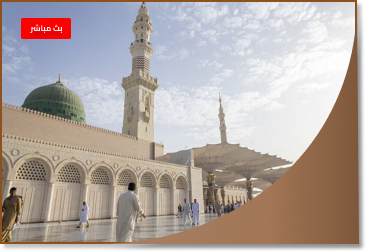
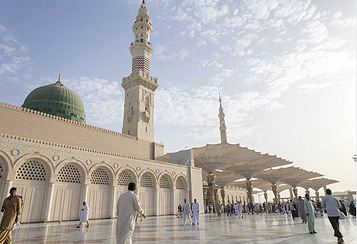
haramain page fixed

diff --git a/lib/controllers/haramain_controller.dart b/lib/controllers/haramain_controller.dart
@@ -43,9 +43,14 @@ class _LiveStreamPageState extends State<LiveStreamPage> {
           (context, player) => Scaffold(
             appBar: AppBar(
               title: Text(widget.title),
-              backgroundColor: Colors.brown,
+              backgroundColor: Colors.transparent,
             ),
-            body: Center(child: player),
+            body: Center(
+              child: Padding(
+                padding: const EdgeInsets.symmetric(vertical: 119.0),
+                child: player,
+              ),
+            ),
           ),
     );
   }

diff --git a/lib/widgets/tools_widgets/haramain_custom.dart b/lib/widgets/tools_widgets/haramain_custom.dart
@@ -73,12 +73,12 @@ class HaramCard extends StatelessWidget {
 
           Positioned(
             bottom: 1,
-            right: 10,
+            right: 0,
             child: Stack(
               alignment: Alignment.bottomRight,
               children: [
                 Image.asset(
-                  'assets/Vector.png',
+                  'assets/images/Vector.png',
                   width: 263,
                   height: 244,
                   fit: BoxFit.cover,

diff --git a/lib/controllers/track_controller.dart b/lib/controllers/track_controller.dart
@@ -1,3 +1,4 @@
+import 'package:flutter/material.dart';
 import 'package:get/get.dart';
 import 'dart:convert';
 import 'package:flutter/services.dart';
@@ -129,7 +130,6 @@ class TrackController extends GetxController {
     progressId = -1;
     type = "";
     isTrackActive = false;
-    Get.reload();
-    Get.to(() => MainScaffold(userType: UserType.user, index: 2));
+    Get.to(() => MainScaffold(userType: UserType.user, index: 3));
   }
 }

diff --git a/lib/views/tools_views/haramain_live_view.dart b/lib/views/tools_views/haramain_live_view.dart
@@ -52,6 +52,7 @@ class HaramBroadcastPage extends StatelessWidget {
               HaramCard(
                 title: 'المسجد \n النبوي',
                 imagePath: 'assets/images/haramain_live_madinah.png',
+
                 videoId: 'jgN8Aw0sP9A',
                 onTap: () {
                   Navigator.push(

diff --git a/lib/main.dart b/lib/main.dart
@@ -13,8 +13,9 @@ void main() async {
     url: "https://mycjnevnidgeklceghsb.supabase.co",
   );
 
-  await storage.setBool("isFirstTime", false);
+  // await storage.setBool("isFirstTime", false);
   await storage.remove("isFirstTime");
+  // await storage.remove("token");
 
   runApp(MyApp());
 }
